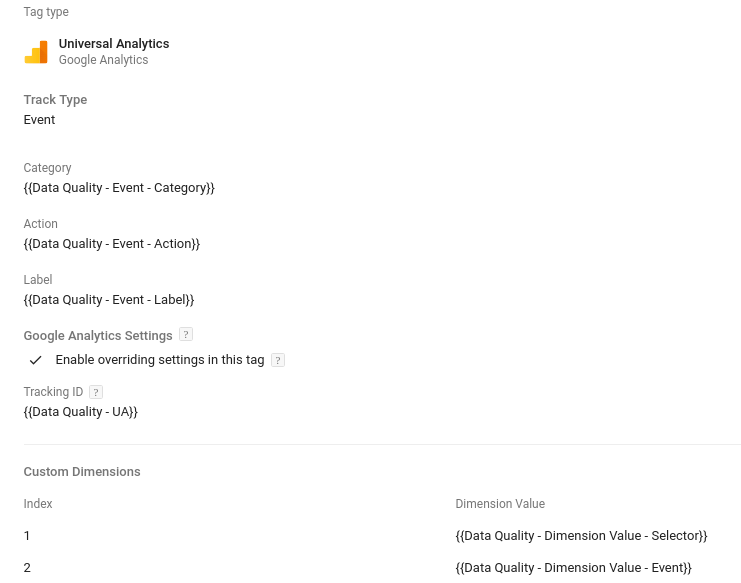
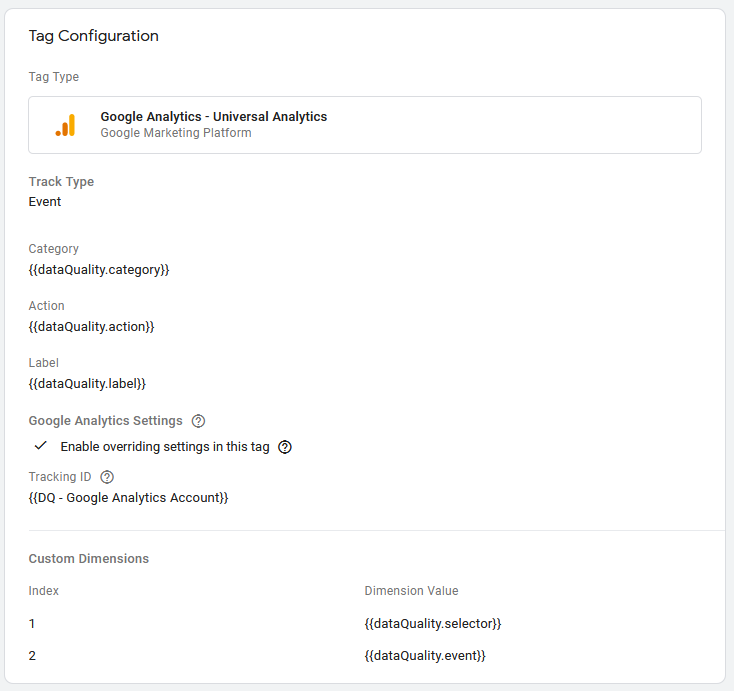
Adição de GA Settings

diff --git a/README-GTM-CONFIG.md b/README-GTM-CONFIG.md
@@ -15,31 +15,32 @@ As tags que utilizarem o objeto analyticsHelper devem configurar esta tag princi
 
 ## Acionadores
 
-Três acionadores do tipo *evento personalizado* devem ser criados.
+Quatro acionadores do tipo *evento personalizado* devem ser criados.
 
-Os nomes dos eventos serão os nomes definidos nos campos: *exceptionEvent*, *customNamePageview* e *customNameEvent*.
-
-Por padrão, os valores destes campos são respectivamente: *gtm_dataQuality_event*, *ga_pageview* e *ga_event*.
+Os nomes dos eventos serão os mesmos nomes utilizados para identificá-los na camada de dados: *gtm_dataQuality_event*, *ga_pageview*, *ga_event* e *ga_timing*.
 
 ![Triggers](documentation-images/event_name.png)
 
 ## Tags de template
 
-Três tags de Universal Analytics devem ser criadas, uma para cada acionador criado acima.
+Quatro tags de Universal Analytics devem ser criadas, uma para cada acionador criado acima.
 
-Estas tags devem ser preenchidas com as variáveis de camada de dados listadas na próxima seção. Estes são os campos mínimos, as tags podem ser estendidas para incluir dimensões personalizadas, dados de ecommerce e outras configurações.
+Estas tags devem ser preenchidas com as variáveis de camada de dados listadas na próxima seção. Estes são os campos padrões, as tags podem ser modificadas  para incluir ou remover dimensões personalizadas, dados de ecommerce e outras configurações.
 
-### Template de Pageview
+### Template de Pageview (+ GA Settings)
 ![Tag de template de Pageview](documentation-images/tag_pageview.png)
 
-### Template de Evento
+### Template de Evento (+ GA Settings)
 ![Tag de template de Evento](documentation-images/tag_event.png)
 
-### Template de Timing
+### Template de Timing (+ GA Settings)
 ![Tag de template de Timing](documentation-images/tag_timing.png)
 
 ### Template de Data Quality
 ![Tag de template de DataQuality](documentation-images/tag_dataquality.png)
+
+### Template de GA Settings
+![Tag de template de GA Settings](documentation-images/var_gasettings.png)
 
 
 ## Variáveis
@@ -59,7 +60,8 @@ A tabela a seguir descreve todas as variáveis do tipo *variável de camada de d
 | timingVariable | Tag de Evento | Variável |
 | timingValue | Tag de Evento | Valor |
 | timingLabel | Tag de Evento | Rótulo |
-| path | Tag de Pageview | Fields to Set -> page |
+| path | GA Settings | Fields to Set -> page |
+| userId | GA Settings | Fields to Set -> userId |
 | dataQuality.category | Tag de Data Quality | Categoria |
 | dataQuality.action | Tag de Data Quality | Ação |
 | dataQuality.label | Tag de Data Quality | Rótulo |
